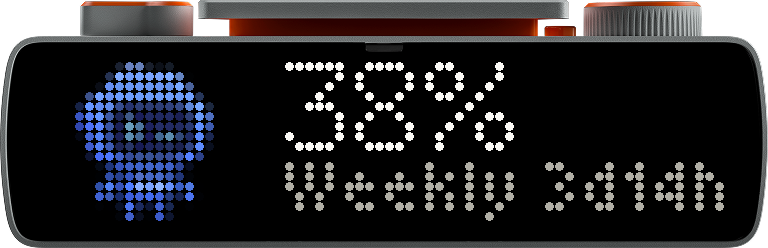
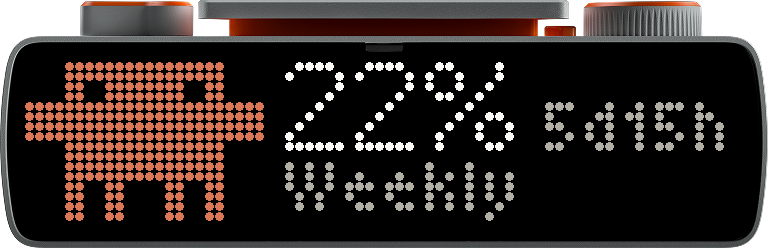
busybar: the buttons work, and nothing on the card is truncated
THE BUTTONS. They work now, driven from a terminal rather than the daemon.
macOS Local Network privacy is the reason: a launchd job cannot raise that
prompt, so every LAN address is refused with "[Errno 65] No route to host"
while the identical connect succeeds from a shell. Proved it by running the
same probe as a launchd job and from the terminal side by side -- USB and
Wi-Fi both fail under launchd, both succeed from the shell.

So `serve` gained a control endpoint and tools/busybar_buttons.py reads the
bar from wherever it has permission, posting presses to the daemon. The
in-daemon reader stays for when the grant lands. Verified end to end: a Start
press travelled input dump -> reader -> /control -> paused:true -> the app
redrew with the badge.

THE TRUNCATION. "Current" and "3h40m" want 52px of a 46px row. First the time
gave, which produced "3h40" -- a duration nobody writes, and the one number on
the card worth acting on. Then I made the label give instead, which produced
"Curre". Both were wrong: they should not share a row at all. The number's row
has free space on every quota card, so the countdown moved up beside it and
the label got the caption row to itself. At 100% the percent sign gives way,
so three digits never reach the countdown.

README screenshots re-shot in the new layout, including the pause toast.

diff --git a/busybar/petmeter/src/main.ts b/busybar/petmeter/src/main.ts
@@ -159,24 +159,15 @@ function colorFor(pct: number): string {
 }
 
 /**
- * Fit the reset string beside the label in 46px, shortening it rather than
- * letting it collide: "1h25m" loses its minutes before it loses its hours.
+ * THE TIME AND THE LABEL DO NOT SHARE A ROW.
+ *
+ * "Current" and "3h48m" want 52px of a 46px one, so something gave: first the
+ * time (which produced "3h48", a duration nobody writes and the one number on
+ * the card worth acting on), then the label (which produced "Curre"). Both
+ * were wrong. The time goes up beside the number instead, where the space is
+ * free on every quota card, and the label gets the caption row to itself.
  */
-function fitReset(label: string, full: string): string | null {
-  const room = PANE_W - smallWidth(label) - 2;
-  // Dropping the trailing "m" only reads as a time when the minutes are two
-  // digits: "1h25m" -> "1h25" is fine, "4h3m" -> "4h3" is not a duration
-  // anyone recognises, so that case falls straight to the hour.
-  const ladder = [
-    full,
-    full.replace(/^(\d+h\d\d)m$/, "$1"),
-    full.replace(/^(\d+[dh]).*$/, "$1"),
-  ];
-  for (const candidate of ladder) {
-    if (candidate && smallWidth(candidate) <= room) return candidate;
-  }
-  return null;
-}
+const RESET_Y = 2;      // small text beside the number, optically centred
 
 function text(
   id: string,
@@ -250,18 +241,17 @@ function petOf(card: Card): Element {
  */
 function quota(card: Card, left: number | null): Element[] {
   const pct = Math.round(card.pct ?? 0);
-  const shown = `${Math.min(pct, 100)}%`;
+  // Three digits and a "%" would reach the countdown above; the sign is the
+  // part that can go, since the bar-less card has nothing else to be.
+  const shown = pct >= 100 ? "100" : `${pct}%`;
+  const reset = left === null ? null : until(left);
   const out: Element[] = [
     petOf(card),
     text("num", shown, "large", NUM_X, -2, colorFor(pct)),
     text("label", card.label, "small", NUM_X, CAPTION_Y, COL_DIM, PANE_W),
   ];
-  if (left !== null) {
-    const fitted = fitReset(card.label, until(left));
-    if (fitted !== null) {
-      out.push(text("reset", fitted, "small", rightAlign(fitted),
-                    CAPTION_Y, COL_DIM));
-    }
+  if (reset !== null) {
+    out.push(text("reset", reset, "small", rightAlign(reset), RESET_Y, COL_DIM));
   }
   return out;
 }
@@ -283,11 +273,8 @@ function credits(card: Card, left: number | null): Element[] {
 
   const detail = held === 0 ? "spent" : left !== null ? until(left) : null;
   if (detail !== null) {
-    const fitted = fitReset(card.label, detail);
-    if (fitted !== null) {
-      out.push(text("reset", fitted, "small", rightAlign(fitted),
-                    CAPTION_Y, COL_DIM));
-    }
+    out.push(text("reset", detail, "small", rightAlign(detail),
+                  CAPTION_Y, COL_DIM));
   }
 
   const n = Math.min(total, MAX_CELLS);

diff --git a/tools/busybar_buttons.py b/tools/busybar_buttons.py
@@ -1,0 +1,84 @@
+#!/usr/bin/env python3
+"""Read the BUSY Bar's buttons and drive the Petmeter daemon.
+
+    python3 tools/busybar_buttons.py [10.0.4.20] [http://10.0.4.21:8724]
+
+The daemon has this same reader built in (`daemon/sinks/busybar_buttons.py`),
+and on macOS it usually cannot use it: connecting to a LAN address needs Local
+Network permission, a launchd job cannot raise that prompt, and the attempt
+fails with `[Errno 65] No route to host` while the identical connect succeeds
+from a terminal. **Run this from a terminal and it works**, because your
+terminal already has the grant.
+
+It does the same thing the built-in reader does -- holds one CLI session on
+the bar running `input dump`, which reports presses even while our canvas has
+swallowed them -- and posts each one to the daemon's control endpoint instead
+of touching its state directly.
+"""
+import re
+import socket
+import sys
+import time
+import urllib.error
+import urllib.request
+
+CLI_PORT = 23
+EVENT = re.compile(r"key: (InputKey\w+) type: (InputType\w+)")
+
+# Short for the buttons so a long press stays free for something else; Press
+# for the wheel, which only emits that.
+ACTIONS = {
+    ("InputKeyStart", "InputTypeShort"): "pause",
+    ("InputKeyOk", "InputTypeShort"): "next",
+    ("InputKeyUp", "InputTypePress"): "next",
+    ("InputKeyDown", "InputTypePress"): "prev",
+}
+
+
+def send(daemon: str, action: str) -> None:
+    try:
+        with urllib.request.urlopen(f"{daemon}/control?do={action}", timeout=5) as r:
+            print(f"  {action} -> {r.read().decode()}")
+    except (urllib.error.URLError, TimeoutError) as exc:
+        print(f"  {action} -> daemon unreachable: {exc}")
+
+
+def session(bar: str, daemon: str) -> None:
+    with socket.create_connection((bar, CLI_PORT), timeout=5) as cli:
+        cli.settimeout(2)
+        try:
+            cli.recv(8192)                      # banner
+        except socket.timeout:
+            pass
+        cli.sendall(b"input dump\r\n")
+        print(f"reading {bar}:{CLI_PORT} — press something")
+        cli.settimeout(None)
+        buf = b""
+        while True:
+            chunk = cli.recv(4096)
+            if not chunk:
+                return
+            buf += chunk
+            while b"\n" in buf:
+                line, _, buf = buf.partition(b"\n")
+                m = EVENT.search(line.decode("latin-1", "replace"))
+                if m:
+                    action = ACTIONS.get((m.group(1), m.group(2)))
+                    print(f"{m.group(1)} {m.group(2)}"
+                          + (f"  -> {action}" if action else ""))
+                    if action:
+                        send(daemon, action)
+
+
+if __name__ == "__main__":
+    args = [a for a in sys.argv[1:] if not a.startswith("-")]
+    bar = args[0] if args else "10.0.4.20"
+    daemon = args[1] if len(args) > 1 else "http://10.0.4.21:8724"
+    while True:
+        try:
+            session(bar, daemon)
+        except KeyboardInterrupt:
+            raise SystemExit(0)
+        except OSError as exc:
+            print(f"no CLI ({exc}); retrying in 5s")
+        time.sleep(5)

diff --git a/daemon/sinks/serve.py b/daemon/sinks/serve.py
@@ -25,6 +25,7 @@ import time
 DEFAULT_BIND = "10.0.4.21"       # this host, on the bar's USB network
 DEFAULT_PORT = 8724
 PATH = "/usage.json"
+CONTROL_PATH = "/control"
 
 _latest: dict = {"ok": False}
 _server: asyncio.AbstractServer | None = None
@@ -175,7 +176,30 @@ async def _handle(reader: asyncio.StreamReader, writer: asyncio.StreamWriter) ->
     try:
         request = await asyncio.wait_for(reader.readline(), timeout=5)
         parts = request.decode("latin-1").split()
-        ok = len(parts) >= 2 and parts[0] == "GET" and parts[1].split("?")[0] == PATH
+        target = parts[1] if len(parts) >= 2 else ""
+        path = target.split("?")[0]
+        ok = len(parts) >= 2 and parts[0] == "GET" and path == PATH
+
+        # A button, from whoever can see one. The in-process reader uses the
+        # Control object directly; this is for a reader running outside the
+        # daemon -- which on macOS is the only place it can run until the
+        # daemon is granted Local Network access, since a launchd job cannot
+        # raise that prompt.
+        if len(parts) >= 2 and path == CONTROL_PATH:
+            action = _query(target).get("do", "")
+            if action == "pause":
+                control.toggle_pause()
+            elif action == "next":
+                control.step(1)
+            elif action == "prev":
+                control.step(-1)
+            body = json.dumps(control.as_dict()).encode()
+            writer.write(
+                f"HTTP/1.1 200 OK\r\nContent-Type: application/json\r\n"
+                f"Content-Length: {len(body)}\r\nConnection: close\r\n\r\n"
+                .encode() + body)
+            await writer.drain()
+            return
 
         if ok:
             q = _query(parts[1])

diff --git a/busybar/README.md b/busybar/README.md
@@ -2,7 +2,7 @@
 
 Coding-agent usage on a [BUSY Bar](https://busy.app) — a 72×16 RGB LED matrix — rotating through every quota your plans meter, each with its label and its mascot.
 
-![Petmeter on a BUSY Bar](../screenshots/busybar/card-5.png)
+![Petmeter on a BUSY Bar](../screenshots/busybar/card-1.png)
 
 Every screenshot here is the real device: captured with
 [`tools/busybar_shot.py --skin`](../tools/busybar_shot.py), which reads the
@@ -15,11 +15,11 @@ The cards rotate every four seconds, each carrying its provider's mascot.
 
 | | |
 |---|---|
-| ![Current](../screenshots/busybar/card-4.png) | **Current** — the 5-hour window |
-| ![Weekly](../screenshots/busybar/card-5.png) | **Weekly** — the 7-day window |
-| ![Fable](../screenshots/busybar/card-1.png) | **Fable** — a scoped model allowance, when the plan meters one |
-| ![Codex weekly](../screenshots/busybar/card-2.png) | **Codex**, with Codey — the same reading for the other provider |
-| ![Reset credits](../screenshots/busybar/card-3.png) | **Resets** — the credit ledger: held solid, spent hollow |
+| ![Current](../screenshots/busybar/card-1.png) | **Current** — the 5-hour window |
+| ![Weekly](../screenshots/busybar/card-2.png) | **Weekly** — the 7-day window |
+| ![Fable](../screenshots/busybar/card-3.png) | **Fable** — a scoped model allowance, when the plan meters one |
+| ![Codex](../screenshots/busybar/card-4.png) | **Codex**, with Codey — the same reading for the other provider |
+| ![Reset credits](../screenshots/busybar/card-5.png) | **Resets** — the credit ledger: held solid, spent hollow |
 
 And the states you hope not to see:
 
@@ -28,7 +28,7 @@ And the states you hope not to see:
 | ![No data](../screenshots/busybar/state-nodata.png) | **no data** — the daemon is there, the reading is not. The pet stays: the app is alive |
 | ![No host](../screenshots/busybar/state-nohost.png) | **no host** — the daemon is unreachable. No pet, because the pet lives on the host |
 | ![Paused](../screenshots/busybar/state-paused.png) | **paused** — the 2×2 badge at the top right, the only room there was for one |
-| ![Toast](../screenshots/busybar/state-toast.png) | the **toast** on a press, over the caption row for two seconds |
+| ![Toast](../screenshots/busybar/state-toast-running.png) | the **toast** on a press — the word replaces the caption for two seconds, then the device removes it itself |
 
 This is a self-contained corner of [Petmeter](../README.md). The desk meter it belongs to is an ESP32 device; nothing here needs one. All it needs is the Petmeter daemon running on a host the bar can reach.
 
@@ -193,9 +193,17 @@ wins and the other gets 409s. Set `busybar_url` or `busybar_serve`, not both.
 
 ```
  0            23 26                                      71
-├─── mascot ────┤├─ 21%  (large, rows 0..8) ─────────────┤
-                ├─ Current ················· 1h25 ───────┤  rows 11..15
+├─── mascot ────┤├─ 17% (large, rows 0..8) ──── 3h40m ───┤
+                ├─ Current ──────────────────────────────┤  rows 11..15
 ```
+
+**The countdown sits beside the number, not beside the label.** "Current" and
+"3h40m" want 52px of a 46px row, so one of them has to give: first the time
+gave (`3h40` — a duration nobody writes, and the one number on the card worth
+acting on), then the label gave (`Curre`). Both were wrong. The top row has
+free space on every quota card, so the time went there and the label got the
+caption row to itself. At 100% the percent sign gives way instead, so three
+digits never reach the countdown.
 
 **There is no bar.** In a 46px pane a `large` number cannot share a row with
 any label, and label + 9px number + a bar do not stack in 16 rows — something
